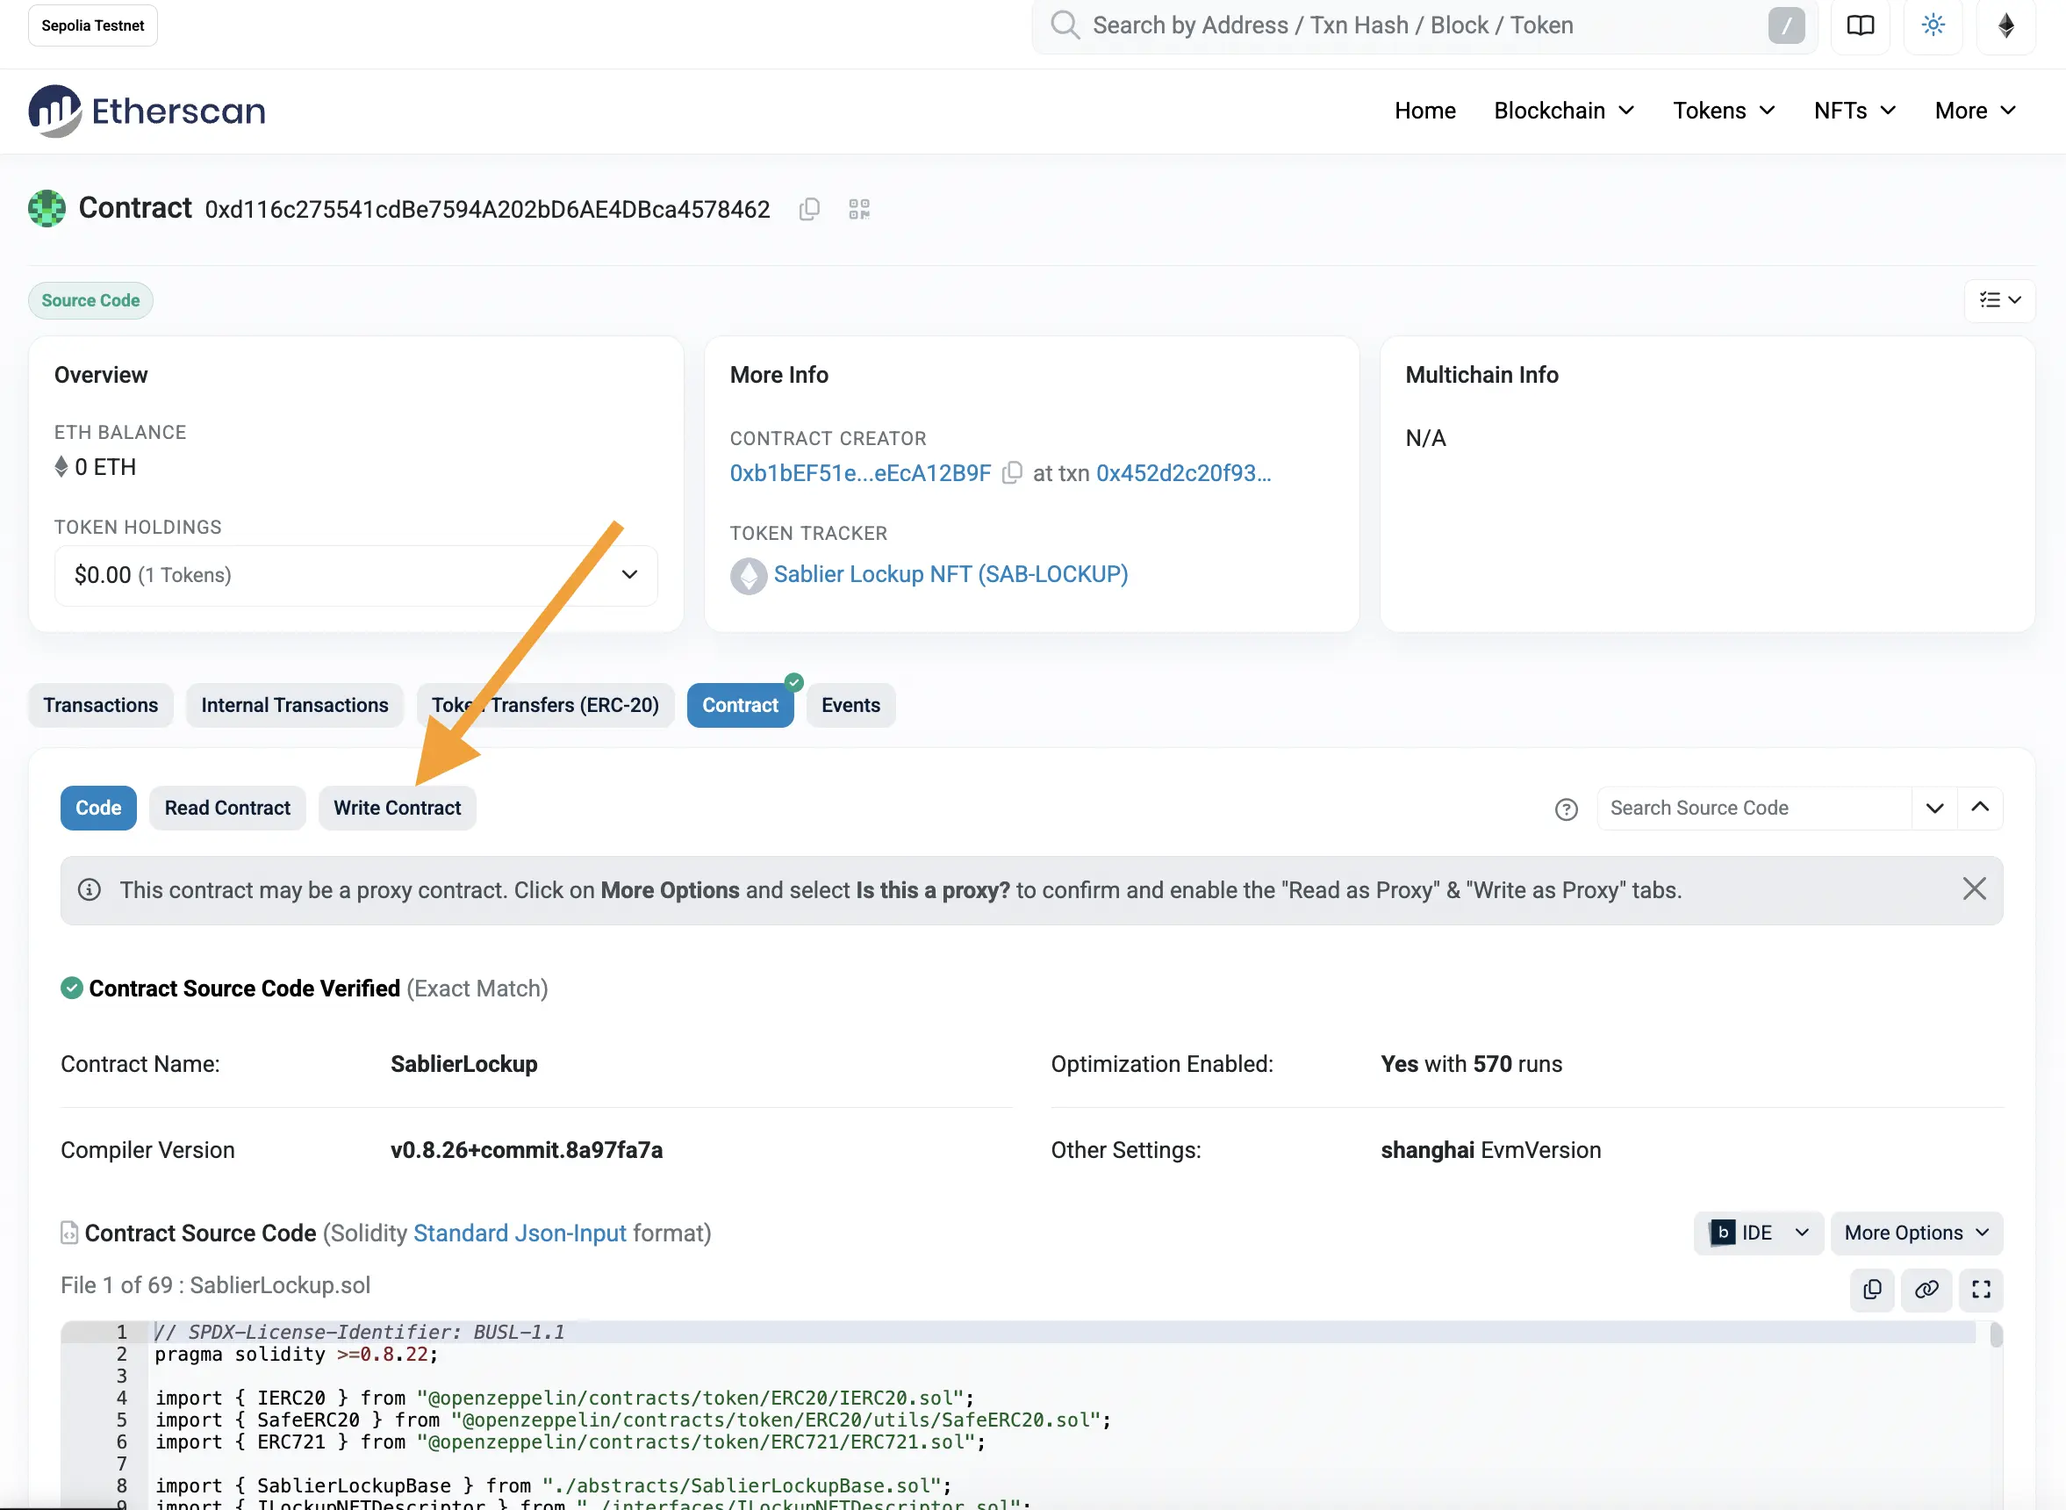
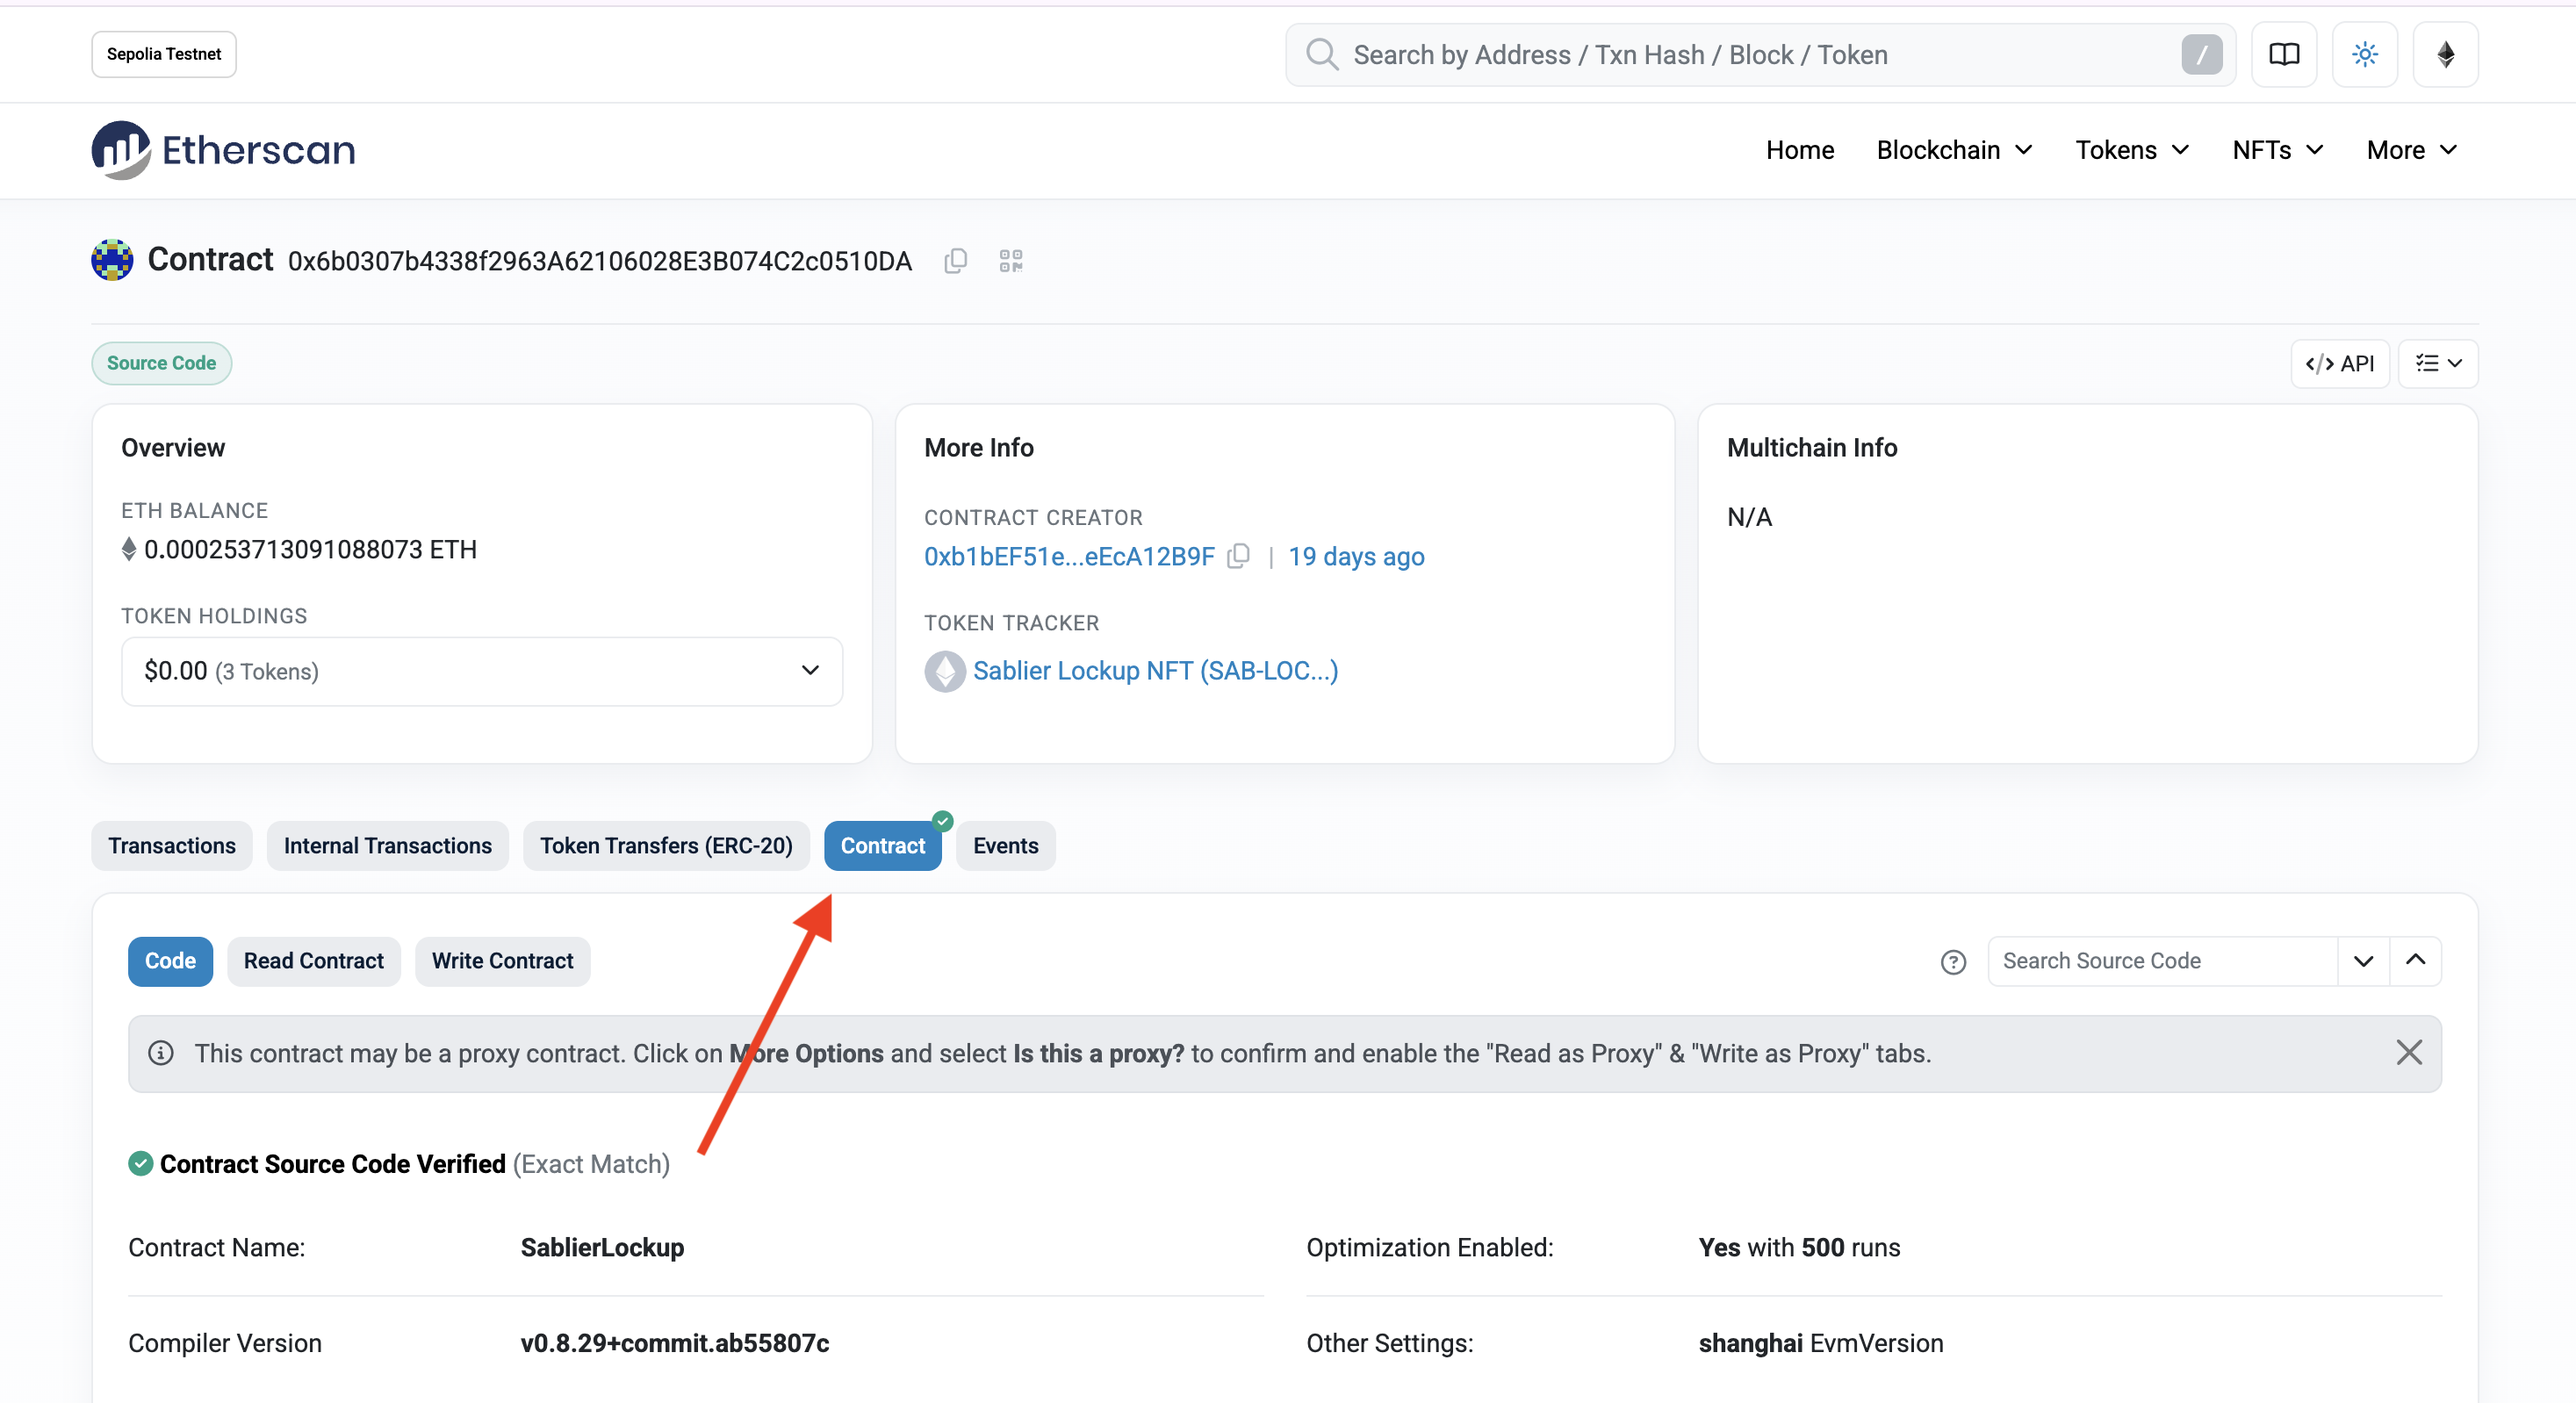
refactor: update lockup etherscan page

diff --git a/docs/guides/lockup/05-etherscan.md b/docs/guides/lockup/05-etherscan.md
@@ -13,7 +13,7 @@ Just like any other open protocol, Lockup can be interacted with directly throug
 In this guide, we will show you how to create a stream and withdraw from a stream by manually interacting with the
 Lockup Core contracts on Etherscan.
 
-If you're interested in interacting with V1, please refer to this
+If you're interested in interacting with Legacy contracts, please refer to this
 [article](https://blog.sablier.com/operating-the-sablier-v1-protocol-manually/).
 
 ## Creating a Stream
@@ -45,11 +45,11 @@ We will now proceed to create our first stream. Let's go with the following para
 
 - a Lockup Linear stream
 - and a deposit of 100 DAI
-- starting Jan 27, 2025
-- ending Jan 27, 2026
-- with cliff until Jan 30, 2025 and cliff amount of 2 DAI
+- starting Jan 1, 2026
+- ending Jan 1, 2027
+- with cliff until Jan 24, 2026 and cliff amount of 2 DAI
 - no token unlock at start time
-- non-cancelable
+- cancelable
 - and transferrable
 
 As the start and end date are fixed, we'll be using the
@@ -71,17 +71,16 @@ transaction. For this example, we will not be attaching any value and therefore 
 
 ```json
 {
-  "sender": "0xf26994E6Af0b95cCa8DFA22A0BC25E1f38a54C42",
-  "recipient": "0xb4bf8a8475d1e8e9a2088f118ad0e2cdc2896183",
-  "totalAmount": 100000000000000000000,
-  "token": "0x3DcBc355c5B5FdF45D2d2ccc8890d76C5b30394A",
-  "cancelable": false,
+  "sender": "0xb1bEF51ebCA01EB12001a639bDBbFF6eEcA12B9F",
+  "recipient": "0xf26994E6Af0b95cCa8DFA22A0BC25E1f38a54C42",
+  "depositAmount": 100000000000000000000,
+  "token": "0x776b6fC2eD15D6Bb5Fc32e0c89DE68683118c62A",
+  "cancelable": true,
   "transferable": true,
-  "timestamps": [1737936000, 1769472000],
+  "timestamps": [1767261600, 1798797600],
   "shape": "",
-  "broker": ["0x0000000000000000000000000000000000000000", 0],
   "unlockAmounts": ["0", "2000000000000000000"],
-  "cliffTime": 1738195200
+  "cliffTime": 1769261600
 }
 ```
 
@@ -90,10 +89,10 @@ provide it like this:
 
 ```json
 [
+  "0xb1bEF51ebCA01EB12001a639bDBbFF6eEcA12B9F",
   "0xf26994E6Af0b95cCa8DFA22A0BC25E1f38a54C42",
-  "0xb4bf8a8475d1e8e9a2088f118ad0e2cdc2896183",
   100000000000000000000,
-  "0x3DcBc355c5B5FdF45D2d2ccc8890d76C5b30394A",
+  "0x776b6fC2eD15D6Bb5Fc32e0c89DE68683118c62A",
   false,
   true,
   [1737936000, 1769472000],
@@ -119,11 +118,27 @@ from Etherscan to learn how to correctly format input data for Write Contract ta
 
 As an example, in the screenshot below, we are providing input parameters for
 [`createWithTimestampsLL`](/reference/lockup/contracts/contract.SablierBatchLockup#createwithtimestampsll) function in
-[`SablierBatchLockup`](https://sepolia.etherscan.io/address/0x04A9c14b7a000640419aD5515Db4eF4172C00E31#writeContract)
+[`SablierBatchLockup`](https://sepolia.etherscan.io/address/0x44Fd5d5854833975E5Fc80666a10cF3376C088E0#writeContract)
 contract. As you can see, since `batch` requires a tuple and does not break it down into separate fields, we had to use
 the above method.
 
 ![Etherscan 08](/img/etherscan-tutorial/08.webp)
+
+```json
+[
+  [
+    "0xb1bEF51ebCA01EB12001a639bDBbFF6eEcA12B9F",
+    "0xf26994E6Af0b95cCa8DFA22A0BC25E1f38a54C42",
+    "100000000000000000000",
+    true,
+    true,
+    [1767261600, 1798797600],
+    1769261600,
+    ["0", "2000000000000000000"],
+    ""
+  ]
+]
+```
 
 #### Sender
 
@@ -137,9 +152,9 @@ Most users will set their own wallet address as the sender.
 The address you want to stream tokens to. The owner of this address is the stream recipient and will receive tokens on
 [withdraw](#withdrawing-from-a-stream).
 
-#### Total Amount
+#### Deposit Amount
 
-This is the total amount of tokens available to be streamed, **DECIMALS INCLUDED**. If the asset has 18 decimals, for
+This is the deposit amount of tokens available to be streamed, **DECIMALS INCLUDED**. If the token has 18 decimals, for
 example, you will need to add eighteen zeros after the amount. Let's say you want to stream 20,000 DAI like in this
 example, you will need to fill in `20000000000000000000000`.
 
@@ -223,7 +238,7 @@ to represent the total duration of the stream (in seconds) and the duration of t
 
 To withdraw from a stream using Etherscan, you will need to obtain the stream's ID. To obtain this without the Sablier
 Interface, find the transaction which created the stream on Etherscan. Here's an
-[example](https://sepolia.etherscan.io/tx/0xf40e0a5ccf134aaa889f2e5d040f5f4fc3bc157298cdac7a2a620a3d784ebbd1) of what it
+[example](https://sepolia.etherscan.io/tx/0x1346d7bcb82b70f20e35ed2d404b0b65593344cf54b4b402af170434799e40cf) of what it
 should look like.
 
 Once found, you will see the stream ID between the two brackets. Note that stream ID and "Token ID" are the same thing.
@@ -338,12 +353,12 @@ For the purpose of creating a **LockupLinear** stream with Lockup, the spender w
 
 As for the amount, you'll have to pad it with the right number of decimals. For DAI, that's 18 decimals, so a value of
 `100` will turn into `100 * 1e18` (100 followed by 18 zeroes). For USDC,that's 6 decimals, so a value of `100` will turn
-into `100 * 1e8` (100 followed by 8 zeroes). The same logic applies to the [total amounts](#total-amount) when creating
-the stream.
+into `100 * 1e8` (100 followed by 8 zeroes). The same logic applies to the [deposit amounts](#deposit-amount) when
+creating the stream.
 
 ```json
 {
-  "spender": "0xd116c275541cdBe7594A202bD6AE4DBca4578462",
+  "spender": "0x6b0307b4338f2963A62106028E3B074C2c0510DA",
   "amount": 100000000000000000000
 }
 ```
